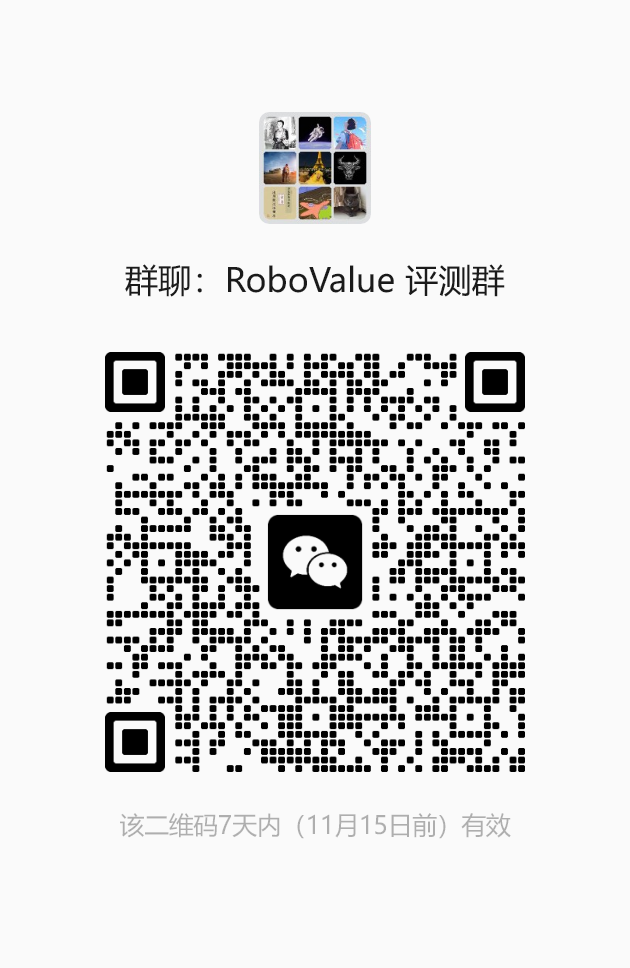
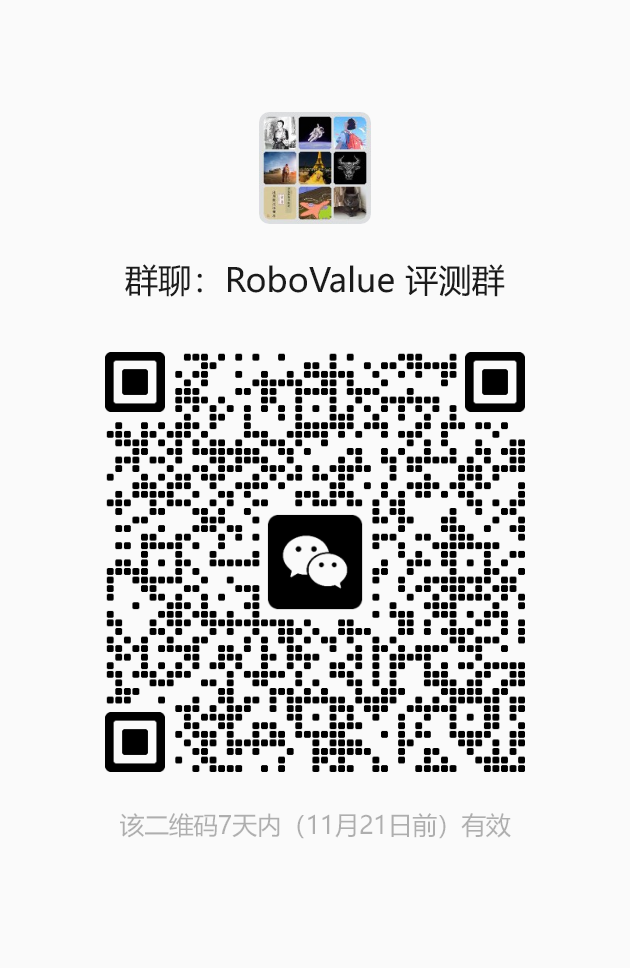
Refresh WeChat group QR codes valid before November 21

Changed region(s): [[0.1508, 0.3409, 0.8444, 0.8058], [0.573, 0.8368, 0.6333, 0.8678]]

diff --git a/src/eval.jsx b/src/eval.jsx
@@ -50,14 +50,14 @@ function EvaluationCommunity() {
       <h3 id="eval-wechat-heading">WeChat Groups</h3>
       <div className="eval-wechat-groups">
         <section aria-labelledby="eval-wechat-evaluation-heading">
-          <a className="eval-qr" href="/assets/evaluation-wechat.png?v=20261108-white" target="_blank" rel="noopener noreferrer" aria-label="Open the evaluation WeChat QR code at full size">
-            <img src="/assets/evaluation-wechat.png?v=20261108-white" width="630" height="968" alt="RoboValue evaluation WeChat group QR code, valid before November 15" />
+          <a className="eval-qr" href="/assets/evaluation-wechat.png?v=20261115" target="_blank" rel="noopener noreferrer" aria-label="Open the evaluation WeChat QR code at full size">
+            <img src="/assets/evaluation-wechat.png?v=20261115" width="630" height="968" alt="RoboValue evaluation WeChat group QR code, valid before November 21" />
           </a>
           <h4 id="eval-wechat-evaluation-heading">Evaluation only</h4>
         </section>
         <section aria-labelledby="eval-wechat-discussion-heading">
-          <a className="eval-qr" href="/assets/community-wechat.png?v=20261108-white" target="_blank" rel="noopener noreferrer" aria-label="Open the discussion WeChat QR code at full size">
-            <img src="/assets/community-wechat.png?v=20261108-white" width="630" height="968" alt="RoboValue discussion WeChat group QR code" />
+          <a className="eval-qr" href="/assets/community-wechat.png?v=20261115" target="_blank" rel="noopener noreferrer" aria-label="Open the discussion WeChat QR code at full size">
+            <img src="/assets/community-wechat.png?v=20261115" width="630" height="968" alt="RoboValue discussion WeChat group QR code" />
           </a>
           <h4 id="eval-wechat-discussion-heading">Discussion</h4>
         </section>
@@ -95,8 +95,8 @@ function EvaluationSuccess({ successRef }) {
       </div>
       <div className="eval-success-channels">
         <section className="eval-success-channel" aria-labelledby="eval-success-wechat-heading">
-          <a className="eval-qr" href="/assets/evaluation-wechat.png?v=20261108-white" target="_blank" rel="noopener noreferrer" aria-label="Open the evaluation WeChat QR code at full size">
-            <img src="/assets/evaluation-wechat.png?v=20261108-white" width="630" height="968" alt="RoboValue evaluation WeChat group QR code, valid before November 15" />
+          <a className="eval-qr" href="/assets/evaluation-wechat.png?v=20261115" target="_blank" rel="noopener noreferrer" aria-label="Open the evaluation WeChat QR code at full size">
+            <img src="/assets/evaluation-wechat.png?v=20261115" width="630" height="968" alt="RoboValue evaluation WeChat group QR code, valid before November 21" />
           </a>
           <h4 id="eval-success-wechat-heading">WeChat</h4>
           <p>Scan to join</p>

diff --git a/src/eval-failure.jsx b/src/eval-failure.jsx
@@ -54,8 +54,8 @@ export function EvaluationFailure({ headingRef, details, onBack }) {
         <section className="eval-failure-channel" aria-labelledby="eval-failure-wechat-heading">
           <h3 id="eval-failure-wechat-heading">WeChat</h3>
           <p className="eval-failure-channel-note">Evaluation group</p>
-          <a className="eval-qr" href="/assets/evaluation-wechat.png?v=20261108-white" target="_blank" rel="noopener noreferrer" aria-label="Open the evaluation WeChat QR code at full size">
-            <img src="/assets/evaluation-wechat.png?v=20261108-white" width="630" height="968" alt="RoboValue evaluation WeChat group QR code, valid before November 15" />
+          <a className="eval-qr" href="/assets/evaluation-wechat.png?v=20261115" target="_blank" rel="noopener noreferrer" aria-label="Open the evaluation WeChat QR code at full size">
+            <img src="/assets/evaluation-wechat.png?v=20261115" width="630" height="968" alt="RoboValue evaluation WeChat group QR code, valid before November 21" />
           </a>
           <p className="eval-failure-scan">Scan with WeChat</p>
         </section>

diff --git a/src/community.jsx b/src/community.jsx
@@ -17,8 +17,8 @@ export function CommunityPage() {
         <p>Scan the QR code with WeChat to join the RoboValue discussion group.</p>
       </div>
       <figure className="community-qr-card">
-        <a href="/assets/community-wechat.png?v=20261108-white" target="_blank" rel="noopener noreferrer" aria-label="Open the RoboValue WeChat QR code at full size">
-          <img src="/assets/community-wechat.png?v=20261108-white" alt="QR code for the RoboValue WeChat discussion group" width="630" height="968" />
+        <a href="/assets/community-wechat.png?v=20261115" target="_blank" rel="noopener noreferrer" aria-label="Open the RoboValue WeChat QR code at full size">
+          <img src="/assets/community-wechat.png?v=20261115" alt="QR code for the RoboValue WeChat discussion group" width="630" height="968" />
         </a>
         <figcaption>RoboValue WeChat Group</figcaption>
       </figure>
